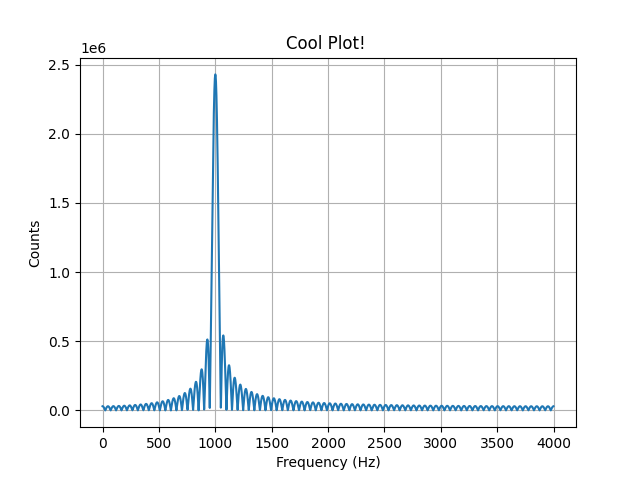
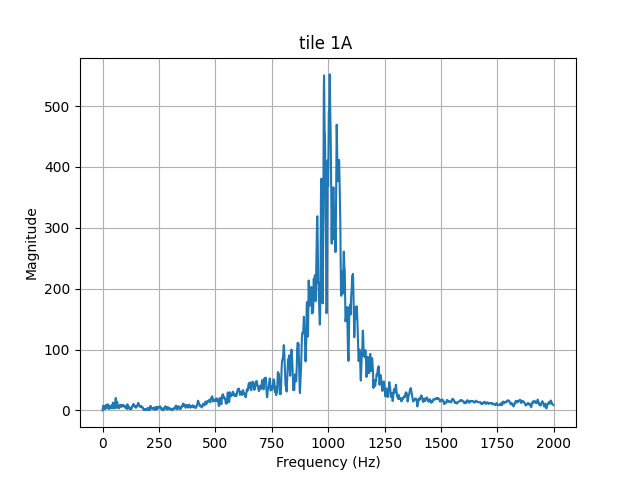
DTF and cracks, tile checking with sound file

diff --git a/signal distribution Exp 7/signal distribution Exp 7/DFT.py b/signal distribution Exp 7/signal distribution Exp 7/DFT.py
@@ -1,3 +1,130 @@
-import matplotlib.pyplot as plt 
-import numpy as np
+import sys
+import time
 
+import base64
+import random as random
+
+import datetime
+import time
+import math
+import numpy as np
+import matplotlib.pyplot as plt 
+
+from cpe367_wav import cpe367_wav
+from my_fifo import my_fifo
+
+yOUT = []
+for k in range(8000):
+	yOUT.append(0)
+	
+############################################
+############################################
+# define routine for implementing a digital filter
+def process_wav(fpath_wav_out):
+	"""
+	: this example does not implement an echo!
+	: input and output is accomplished via WAV files
+	: return: True or False 
+	"""
+	
+
+	wav_out = cpe367_wav('wav_out',fpath_wav_out)
+		
+	# setup configuration for output WAV
+	num_channels = 1
+	sample_width_8_16_bits = 16
+	sample_rate_hz = 8000
+	wav_out.set_wav_out_configuration(num_channels,sample_width_8_16_bits,sample_rate_hz)
+	# open WAV output file
+	ostat = wav_out.open_wav_out()
+	if ostat == False:
+		print('Cant open wav file for writing')
+		return False
+	# process entire input signal
+	yout = 0
+	count = 0
+	while count < 8000:
+		yout = 8000*math.cos(0.25*math.pi*count)*math.exp(-(count)/1600)
+		yOUT[count] = yout
+		count = count + 1
+
+		# convert to signed int
+		yout = int(round(yout))
+		
+		# output current sample
+		ostat = wav_out.write_wav(yout)
+		if ostat == False: break
+	# close output files
+	# important to close output file - header is updated (with proper file size)
+	compute_mag(yOUT)
+	wav_out.close_wav()
+	
+	
+	#N = 4000
+	#freqs = np.fft.rfftfreq(N, d=1/8000)
+	#dft = np.fft.rfft(yout, N)
+	return True
+
+def compute_mag(xin):
+	xk =[]
+	for i in range(4000):
+		#xin.append(0)
+		xk.append(0)
+
+	for l in range(4000):
+		for k in range(4000):
+			xk[l] = xk[l] + xin[k]*(math.cos(2*math.pi*l*k/8000) - 1j*math.sin(2*math.pi*l*k/8000))
+
+	xp = []
+	for u in range(2000):
+		xp.append(0)
+	
+	for q in range(2000):
+		xp[q] = xk[q]/2000
+		                          
+	magnitude = np.abs(xp)
+	plot_spectrum(magnitude)
+	return magnitude
+
+def plot_spectrum(xin):
+	x_comp = []
+	for p in range(2000):
+		x_comp.append(0)
+
+	for t in range(2000):
+		#print(t)
+		x_comp[t] = t
+
+	fig, ax = plt.subplots() 
+	ax.plot(x_comp, xin) 
+	ax.set(xlabel='Frequency (Hz)', ylabel='Counts', title='Cool Plot! ') 
+	ax.grid() 
+ 
+	fig.savefig('image_file.png') 
+	plt.show()
+
+
+
+
+############################################
+############################################
+# define main program
+def main():
+
+	# check python version!
+	major_version = int(sys.version[0])
+	if major_version < 3:
+		print('Sorry! must be run using python3.')
+		print('Current version: ')
+		print(sys.version)
+		return False
+			
+	# grab file names
+	fpath_wav_out = 'no_name.wav'
+	
+	return process_wav(fpath_wav_out)
+
+if __name__ == '__main__':
+	
+	main()
+	quit()

diff --git a/signal distribution Exp 7/signal distribution Exp 7/partThree.py b/signal distribution Exp 7/signal distribution Exp 7/partThree.py
@@ -73,28 +73,79 @@ def compute_mag(xin):
 			xk[l] = xk[l] + xin[k]*(math.cos(2*math.pi*l*k/8000) - 1j*math.sin(2*math.pi*l*k/8000))
 
 	xp = []
-	for u in range(4000):
+	for u in range(2000):
 		xp.append(0)
 	
-	for q in range(4000):
-		xp[q] = xk[q]/4000
+	for q in range(2000):
+		xp[q] = xk[q]/2000
 		                          
 	magnitude = np.abs(xp)
+	max_mag =0
+	max_freq = 0
+	
+	#max peak of the wav file#
+	# for p in range(4000):
+	# 	if(max_mag<magnitude[p]):
+	# 		max_mag = magnitude[p]
+	# 		max_freq = p
+	# print('Peak-mag: '+str(max_mag))
+	# print('max_freq: '+str(max_freq))
+
+	#Second_mag(magnitude,max_mag)
 	plot_spectrum(magnitude)
 	return magnitude
 
+def Second_mag(xk,max_mag):
+	right_mag = []
+	#right_freq = []
+	for k in range(4000):
+		right_mag.append(0)
+		#right_freq.append(0)
+	for s in range(4000):
+		if(xk[s]>=(max_mag/2)):
+			right_mag[s] = xk[s]
+			#right_freq[s] = s
+	calculate_f(right_mag)
+    #plot_spectrum(right_mag)
+
+
+
+###########calculating f_zero value############
+def calculate_f(right_mag):
+	sum_freq_mag =0
+	sum_mag = 0
+	#f_zero =0
+	for p in range(4000):
+		if(right_mag !=0):
+			sum_freq_mag = sum_freq_mag+(p*right_mag[p])
+			sum_mag = sum_mag+right_mag[p]
+	
+	f_zero = (sum_freq_mag)/(sum_mag)
+	print('weighted-average: '+str(f_zero))
+	calc_air_gap(f_zero)
+	
+
+def calc_air_gap(f_zero):
+	length = 343/(2*f_zero)
+	length_inch = length*39.3701
+	print('length in meter: '+ str(length))
+	print('length in inches: '+ str(length_inch))
+
+
+###############code for my plot############
+
 def plot_spectrum(xk):
 	x_comp = []
-	for p in range(4000):
+	for p in range(2000):
 		x_comp.append(0)
 
-	for t in range(4000):
+	for t in range(2000):
 		#print(t)
 		x_comp[t] = t
 
 	fig, ax = plt.subplots() 
 	ax.plot(x_comp, xk) 
-	ax.set(xlabel='Frequency (Hz)', ylabel='Counts', title='Cool Plot! ') 
+	ax.set(xlabel='Frequency (Hz)', ylabel='Magnitude', title='tile 1A ') 
 	ax.grid() 
  
 	fig.savefig('image_file.png') 
@@ -117,7 +168,7 @@ def main():
 		return False
 			
 	# grab file names
-	fpath_wav_in = 'cos_1khz_pulse_20msec.wav'
+	fpath_wav_in = 'tile1a.wav'
 	#fpath_wav_out = 'joy_short2_echo_FIR.wav'
 	
 	

diff --git a/signal distribution Exp 7/signal distribution Exp 7/my_fifo.py b/signal distribution Exp 7/signal distribution Exp 7/my_fifo.py
@@ -39,7 +39,7 @@ class my_fifo:
 		
 		#self.buff[0] = current_in
 
-		for p in range(1,self.buff_len):
+		for p in range(self.buff_len):
 			self.temp1[p] = self.buff[p-1]
 		
 		for t in range(self.buff_len):
